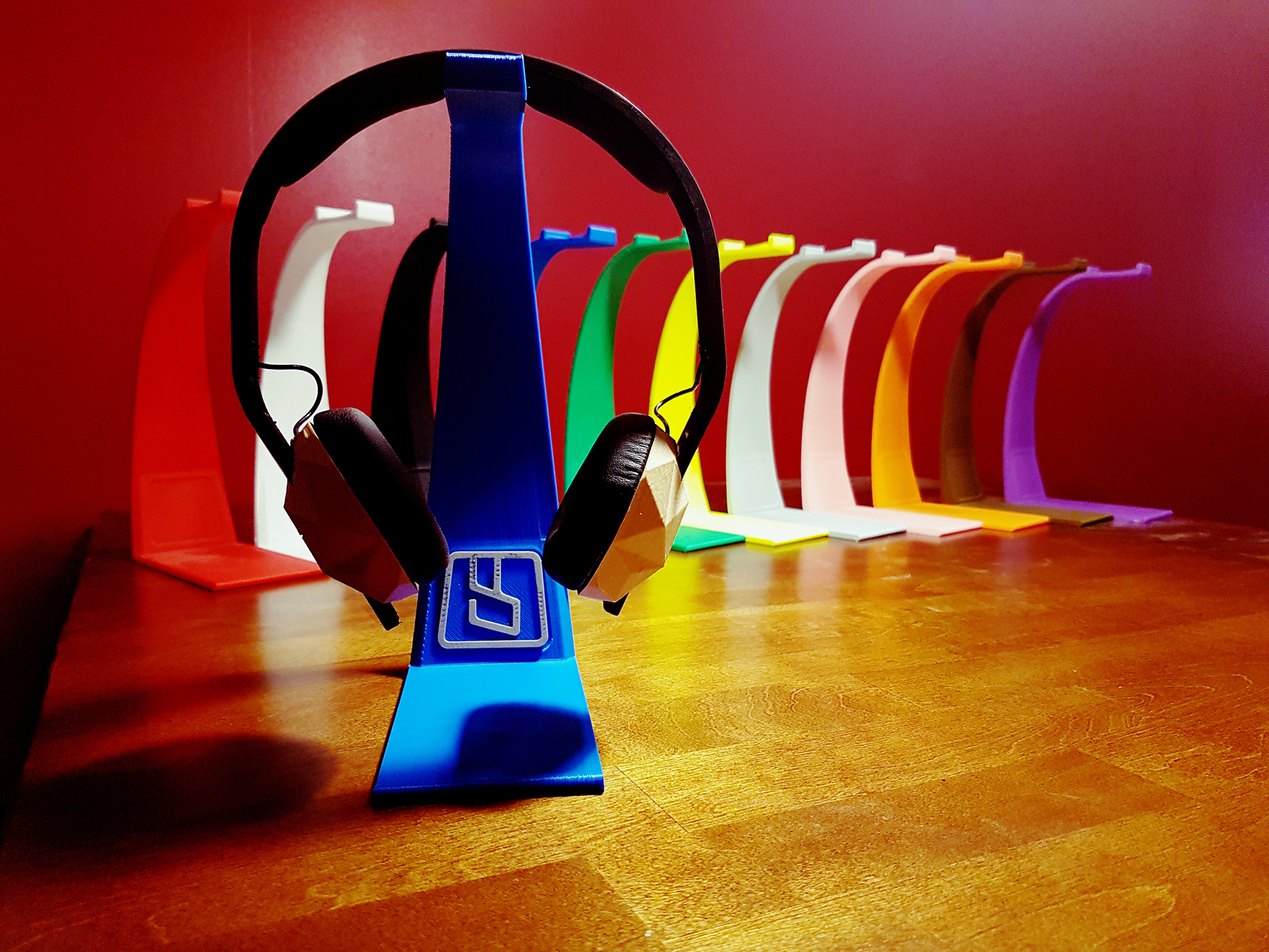
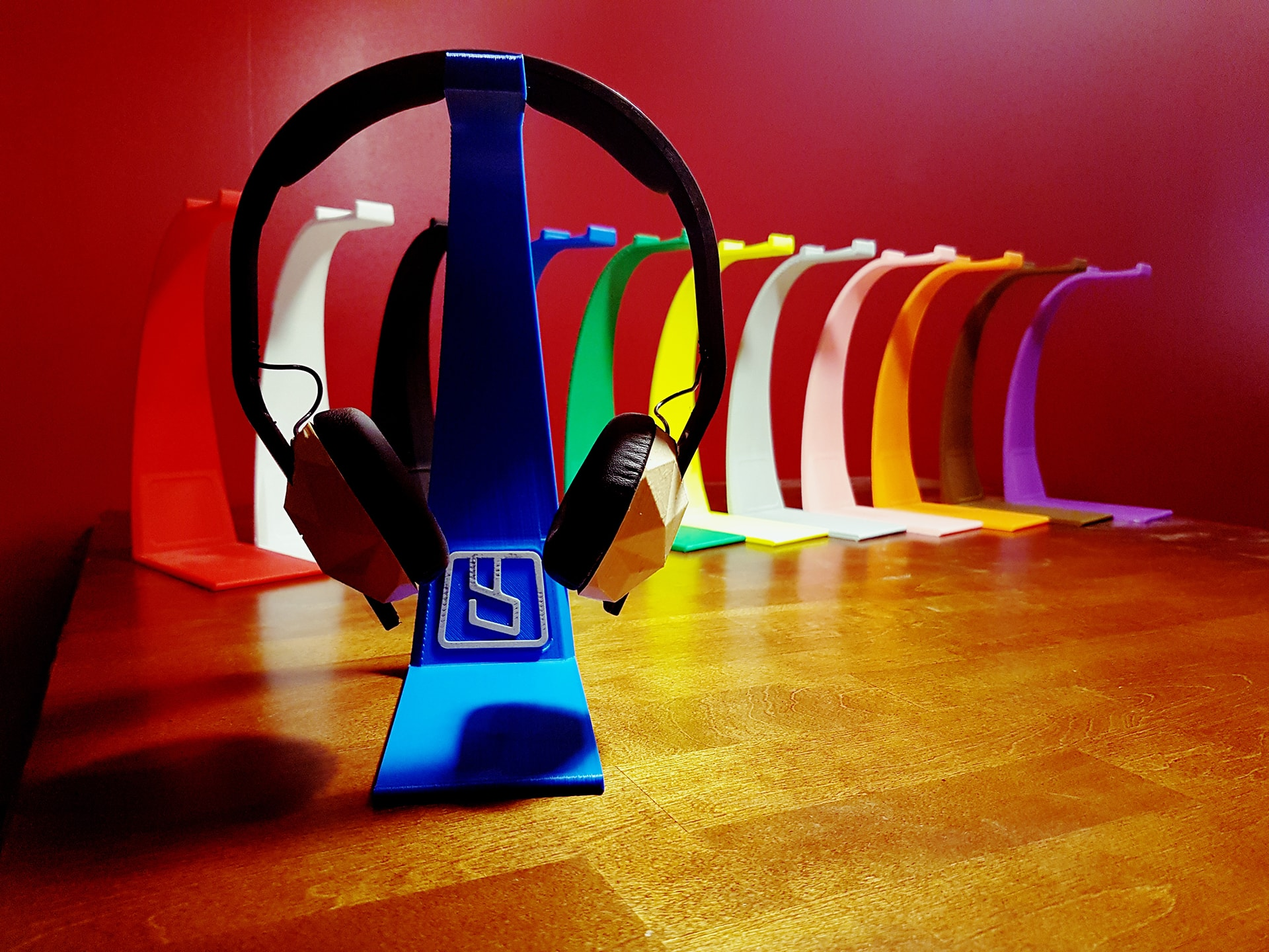
Optimize images, remove contact form from CreateForge

Changed region(s): [[0.4688, 0.75, 0.5938, 0.875]]

diff --git a/cc3d/pages/createforge.php b/cc3d/pages/createforge.php
@@ -44,7 +44,7 @@
       <div class="slide">
         <h2>Wholesale Purchases</h2>
         <div>
-         Our team will ensure that you get the product edge for your shop with function &amp; quality. Using our experience in design and manufacturing we are able to create any product that you may wish to bring into your store even outside of what we offer on our site.  
+         Our team will ensure that you get the product edge for your shop with function &amp; quality. Using our experience in design and manufacturing we are able to create any product that you may wish to bring into your store even outside of what we offer on our site.
           <br /><br /><a class="button" href="mailto:createforge@createcafe.ca" target="_blank">Contact CreateForge</a>
         </div>
       </div>
@@ -71,10 +71,5 @@
     </div>
 
   </div>
-<div class="section">
-  <h1>Contact <b>Us</b></h1>
-  <script type="text/javascript" src="https://form.jotform.com/jsform/63388804799274"></script>
-
-</div>
 
 </div>
